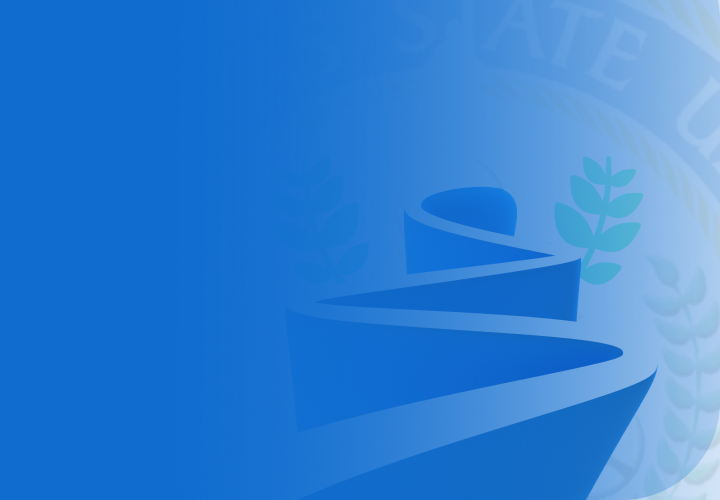
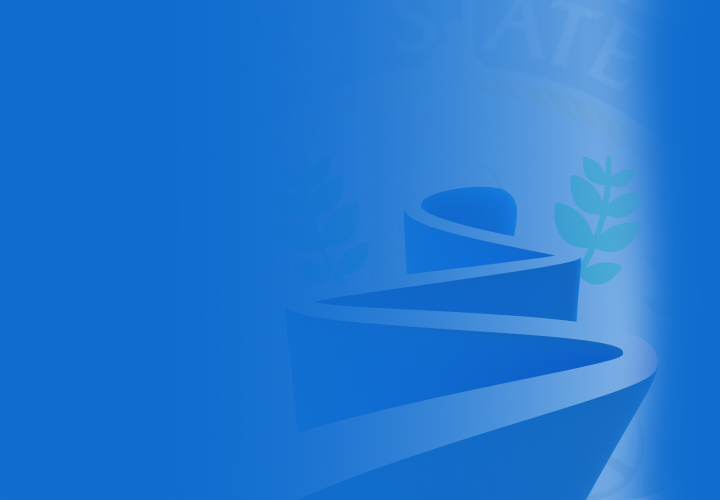
Frontliners screen

Changed region(s): [[0.825, 0.0, 1.0, 1.0]]

diff --git a/lib/screens/thankyou_frontliners_screen.dart b/lib/screens/thankyou_frontliners_screen.dart
@@ -1,5 +1,7 @@
 import 'package:flutter/material.dart';
+import 'package:flutter_vector_icons/flutter_vector_icons.dart';
 import 'package:google_fonts/google_fonts.dart';
+import 'package:wvsu_tour_app/config/app.dart';
 
 class ThankyouFrontlinersScreen extends StatefulWidget {
   ThankyouFrontlinersScreen({Key key}) : super(key: key);
@@ -13,15 +15,67 @@ class _ThankyouFrontlinersScreenState extends State<ThankyouFrontlinersScreen> {
   @override
   Widget build(BuildContext context) {
     return Container(
-      child: Scaffold(
-        appBar: AppBar(
-          backgroundColor: Colors.white,
-          title: Text(
-            "Thank you Frontliners!",
-            style: GoogleFonts.openSans(color: Color(0xFF000000)),
+      decoration: BoxDecoration(
+        color: appPrimaryColor,
+        image: DecorationImage(
+            fit: BoxFit.cover,
+            alignment: Alignment.bottomCenter,
+            image: AssetImage('assets/images/frontliners-bg.png')),
+      ),
+      child: Stack(
+        children: [
+          Column(
+            crossAxisAlignment: CrossAxisAlignment.center,
+            children: [
+              SizedBox(
+                height: MediaQuery.of(context).size.height * 0.2,
+              ),
+              Padding(
+                padding:
+                    EdgeInsets.symmetric(horizontal: appDefaultPadding + 30.0),
+                child: Text(
+                  "Thank you frontliners! Double tap the heart to send a thank you to our modern heroes!",
+                  style: GoogleFonts.openSans(color: Colors.white),
+                  textAlign: TextAlign.center,
+                ),
+              ),
+              SizedBox(
+                height: 20,
+              ),
+              Row(
+                crossAxisAlignment: CrossAxisAlignment.center,
+                mainAxisAlignment: MainAxisAlignment.center,
+                children: [
+                  Icon(
+                    Feather.heart,
+                    color: Colors.white,
+                    size: 60,
+                  ),
+                  SizedBox(
+                    width: 20,
+                  ),
+                  Text("1,000",
+                      style: GoogleFonts.openSans(
+                          fontSize: 60, color: Colors.white))
+                ],
+              ),
+              SizedBox(
+                height: MediaQuery.of(context).size.height * 0.2,
+                width: double.infinity,
+              ),
+            ],
           ),
-        ),
-        body: Text("data"),
+          Positioned(
+              left: MediaQuery.of(context).size.width * 0.33,
+              top: MediaQuery.of(context).size.height * 0.6,
+              child: IconButton(
+                  icon: Icon(
+                    Icons.favorite,
+                    color: Colors.red,
+                    size: 130,
+                  ),
+                  onPressed: () {}))
+        ],
       ),
     );
   }

diff --git a/lib/screens/navigator_screen.dart b/lib/screens/navigator_screen.dart
@@ -5,6 +5,7 @@ import 'package:flutter_vector_icons/flutter_vector_icons.dart';
 import 'package:google_fonts/google_fonts.dart';
 import 'package:scroll_snap_list/scroll_snap_list.dart';
 import 'package:websafe_svg/websafe_svg.dart';
+import 'package:wvsu_tour_app/config/app.dart';
 
 class NavigatorScreen extends StatefulWidget {
   NavigatorScreen({Key key}) : super(key: key);
@@ -38,7 +39,7 @@ class _NavigatorScreenState extends State<NavigatorScreen> {
       width: 350,
       child: Material(
         borderRadius: BorderRadius.all(Radius.circular(20)),
-        color: Color(0xFF106DCF),
+        color: appPrimaryColor,
         child: InkWell(
           onTap: () {
             sslKeyCampus.currentState.focusToItem(index);
@@ -67,16 +68,16 @@ class _NavigatorScreenState extends State<NavigatorScreen> {
   @override
   Widget build(BuildContext context) {
     return Scaffold(
-        backgroundColor: Color(0xFFF3F3F3),
+        backgroundColor: appScaffoldBackgroundColor,
         body: SingleChildScrollView(
           child: Stack(
             children: [
               Column(crossAxisAlignment: CrossAxisAlignment.start, children: [
                 Container(
                   decoration: BoxDecoration(
-                      color: Color(0xFF106DCF),
+                      color: appPrimaryColor,
                       borderRadius:
-                          BorderRadius.vertical(bottom: Radius.circular(40)),
+                          BorderRadius.vertical(bottom: Radius.circular(36)),
                       image: DecorationImage(
                           fit: BoxFit.contain,
                           alignment: Alignment.bottomRight,
@@ -84,9 +85,9 @@ class _NavigatorScreenState extends State<NavigatorScreen> {
                               AssetImage('assets/images/home-screen-top.png'))),
                   child: SizedBox(
                       width: double.infinity,
-                      height: 230,
+                      height: MediaQuery.of(context).size.height * 0.3,
                       child: Padding(
-                          padding: EdgeInsets.fromLTRB(40, 50, 40, 0),
+                          padding: EdgeInsets.fromLTRB(40, 40, 40, 0),
                           child: Column(
                             crossAxisAlignment: CrossAxisAlignment.start,
                             children: [
@@ -231,8 +232,8 @@ class _NavigatorScreenState extends State<NavigatorScreen> {
                 )
               ]),
               Positioned(
-                  top: 40,
-                  right: 20,
+                  top: 30,
+                  right: appDefaultPadding,
                   child: IconButton(
                       icon: Icon(Feather.log_out),
                       color: Colors.white,

diff --git a/lib/screens/login_screen.dart b/lib/screens/login_screen.dart
@@ -4,6 +4,7 @@ import 'package:flutter/material.dart';
 import 'package:google_fonts/google_fonts.dart';
 import 'package:websafe_svg/websafe_svg.dart';
 import 'package:flutter_vector_icons/flutter_vector_icons.dart';
+import 'package:wvsu_tour_app/config/app.dart';
 
 class LoginScreen extends StatefulWidget {
   LoginScreen({Key key}) : super(key: key);
@@ -18,28 +19,28 @@ class _LoginScreenState extends State<LoginScreen> {
     return Container(
       child: Container(
           decoration: BoxDecoration(
-              color: Color(0xFF106DCF),
+              color: appPrimaryColor,
               image: DecorationImage(
                   fit: BoxFit.cover,
                   alignment: Alignment.bottomCenter,
                   image: AssetImage('assets/images/login-bg.png'))),
           child: Scaffold(
+              appBar: AppBar(
+                elevation: 0,
+                backgroundColor: Colors.transparent,
+                leading: IconButton(
+                  icon: Icon(Icons.close),
+                  onPressed: () {
+                    exit(0);
+                  },
+                  color: Colors.white,
+                ),
+              ),
               backgroundColor: Colors.transparent,
               body: Stack(
                 children: [
-                  Positioned(
-                      top: 40,
-                      left: 20,
-                      child: IconButton(
-                        icon: Icon(Icons.close),
-                        onPressed: () {
-                          exit(0);
-                        },
-                        color: Colors.white,
-                      )),
                   Column(
                       crossAxisAlignment: CrossAxisAlignment.center,
-                      mainAxisAlignment: MainAxisAlignment.center,
                       children: [
                         SizedBox(
                           width: MediaQuery.of(context).size.width,
@@ -47,7 +48,7 @@ class _LoginScreenState extends State<LoginScreen> {
                             crossAxisAlignment: CrossAxisAlignment.start,
                             children: [
                               Padding(
-                                padding: EdgeInsets.all(50),
+                                padding: EdgeInsets.all(appDefaultPadding + 30),
                                 child: Container(
                                     decoration: BoxDecoration(
                                       color: Colors.white,

diff --git a/lib/main.dart b/lib/main.dart
@@ -1,4 +1,6 @@
 import 'package:flutter/material.dart';
+import 'package:google_fonts/google_fonts.dart';
+import 'package:wvsu_tour_app/config/app.dart';
 import 'package:wvsu_tour_app/screens/home_screen.dart';
 import 'package:wvsu_tour_app/screens/login_screen.dart';
 
@@ -13,6 +15,10 @@ class MyApp extends StatelessWidget {
     return MaterialApp(
         // initialRoute: "/",
         theme: ThemeData(
+          primaryColor: appPrimaryColor,
+          scaffoldBackgroundColor: appScaffoldBackgroundColor,
+          textTheme:
+              Theme.of(context).textTheme.apply(bodyColor: appTextBodyColor),
           visualDensity: VisualDensity.adaptivePlatformDensity,
         ),
         routes: <String, WidgetBuilder>{

diff --git a/lib/config/app.dart b/lib/config/app.dart
@@ -1,0 +1,7 @@
+import 'package:flutter/material.dart';
+
+const appPrimaryColor = Color(0xFF106DCF); // #106DCF
+const appSecondaryColor = Color(0xFF075BB3); // #075BB3
+const appTextBodyColor = Color(0xFF4F4F4F); // #4F4F4F
+const appScaffoldBackgroundColor = Color(0xFFF3F3F3); // #F3F3F3
+double appDefaultPadding = 20.0;
